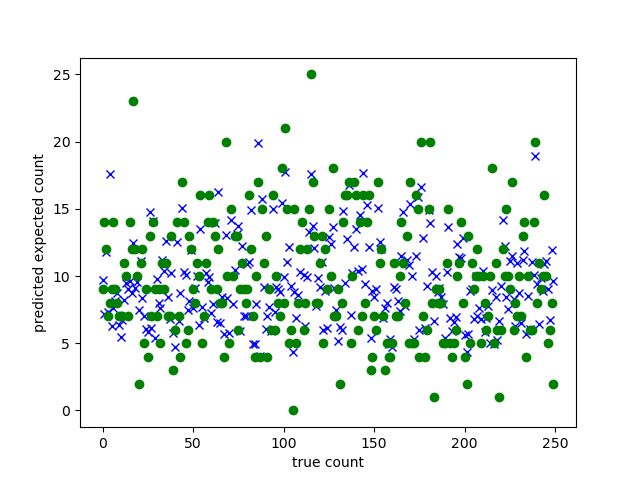
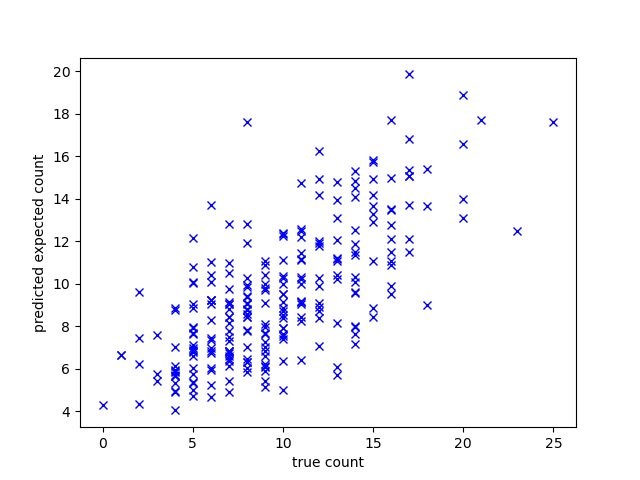
[hw1] fixup poisson plot

diff --git a/ps1/src/poisson/util.py b/ps1/src/poisson/util.py
@@ -60,7 +60,7 @@ def load_dataset(csv_path, label_col='y', add_intercept=False):
     return inputs, labels
 
 
-def plot(x, y, theta, save_path, correction=1.0):
+def plot(pred, y, theta, save_path, correction=1.0):
     """Plot dataset and fitted logistic regression parameters.
 
     Args:
@@ -72,8 +72,7 @@ def plot(x, y, theta, save_path, correction=1.0):
     """
     # Plot dataset
     plt.figure()
-    plt.plot(x, 'bx', linewidth=2)
-    plt.plot(y, 'go', linewidth=2)
+    plt.plot(y, pred, 'bx', linewidth=2)
 
     # Add labels and save to disk
     plt.xlabel('true count')

diff --git a/ps1/src/poisson/poisson.py b/ps1/src/poisson/poisson.py
@@ -17,7 +17,7 @@ def main(lr, train_path, eval_path, save_path):
     # *** START CODE HERE ***
     # Fit a Poisson Regression model
     # Run on the validation set, and use np.savetxt to save outputs to save_path
-    clf = PoissonRegression()
+    clf = PoissonRegression(step_size=lr)
     clf.fit(x_train, y_train)
     x_val, y_val = util.load_dataset(eval_path, add_intercept=True)
     predictions = clf.predict(x_val)
